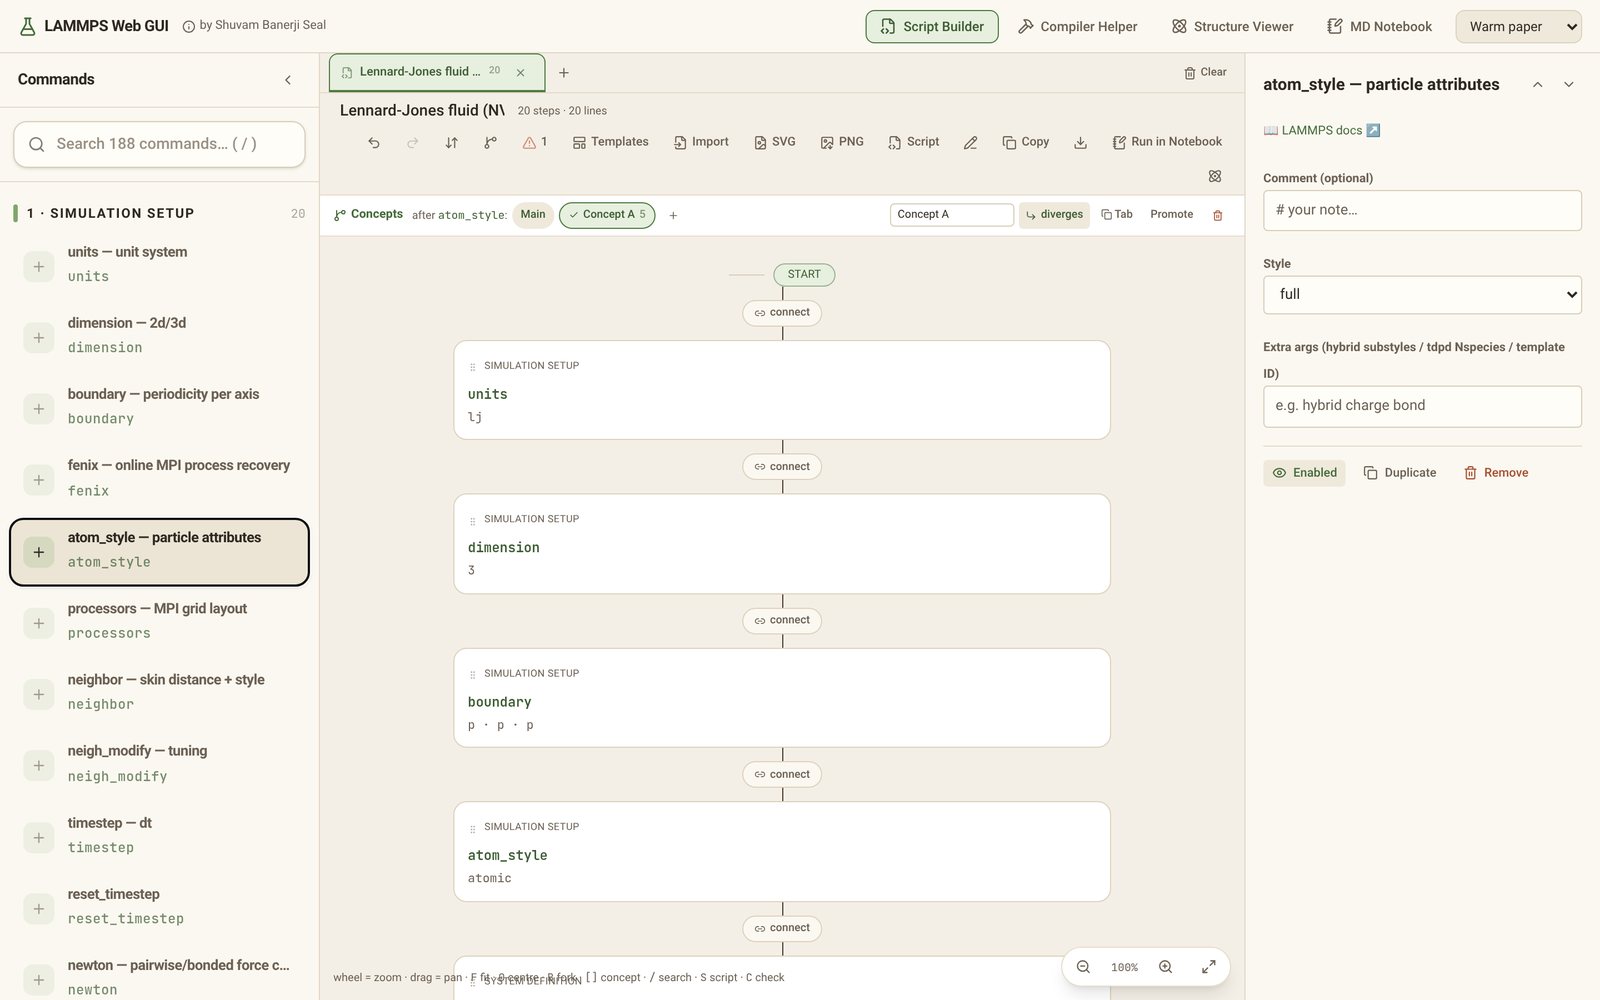
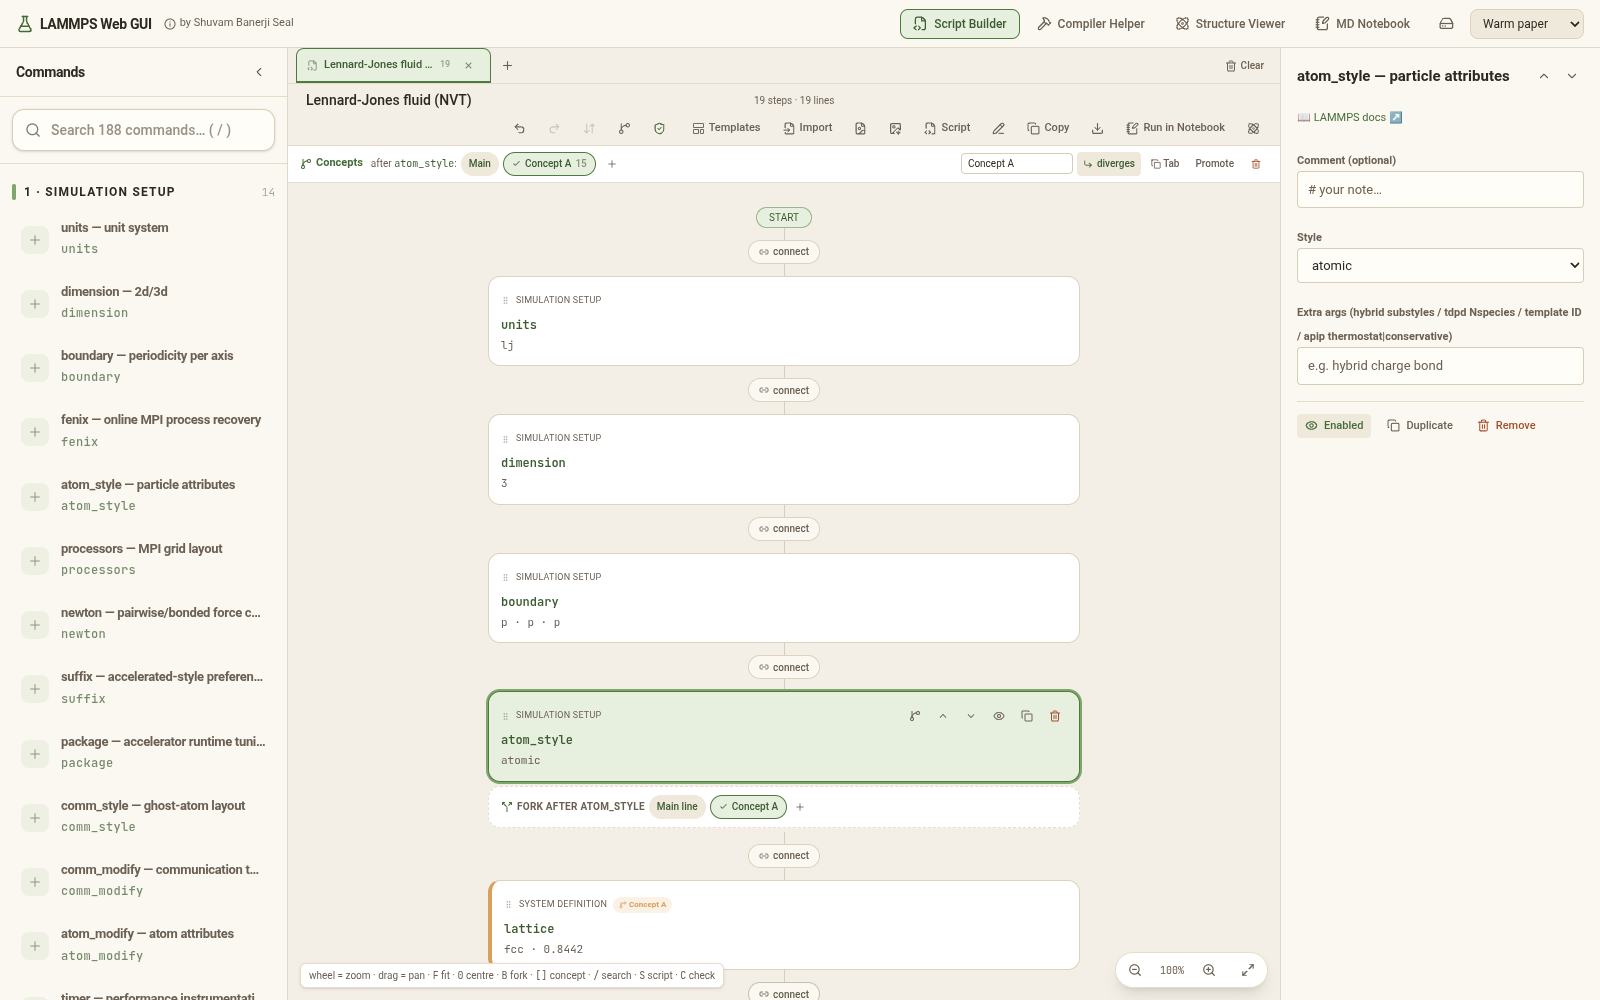
fix(builder): flowchart Fit fits, theme-coloured connectors, full title, one-row toolbar, readable hint
- Fit (F, the fit button) only fitted the width below 50 %, so a long pipeline stayed at 100 %. It now fits the
  whole pipeline (never above 100 %). It also marks the view as the user's, and the centring frame scheduled after a
  load checks that again, so a resize or that frame no longer snaps a fit back.
- The connector lines used a hard-coded dark brown that vanished in the dark themes; they use the theme's edgeLine
  (Coffee & sage's token raised for contrast).
- START and END lose their one-sided stub line.
- The title takes the row's free width (it was a fixed 10rem, cutting "Lennard-Jones fluid (NVT)"), with the full
  name as its tooltip.
- The title and the toolbar wrap as groups, and the toolbar labels follow the row's own width through container
  queries, not the viewport, so no button wraps alone onto a second row (measured from 1280 to 2560 px).
- The shortcut hint sits on a backdrop and stops short of the zoom control.

Changed region(s): [[0.0, 0.0, 1.0, 1.0], [0.7812, 0.31, 0.9688, 0.434], [0.8125, 0.465, 0.9375, 0.496]]

diff --git a/src/components/workbench/ScriptBuilder.tsx b/src/components/workbench/ScriptBuilder.tsx
@@ -177,8 +177,6 @@ const loadWorkspace = (): ScriptWorkspace => {
  */
 const ZOOM_MIN = 0.15;
 const ZOOM_MAX = 2.5;
-/** Fit to view never zooms out below this (text stays legible); see fitToView. */
-const FIT_MIN = 0.5;
 
 interface Transform {
   x: number;
@@ -885,14 +883,18 @@ const ScriptBuilder: React.FC<ScriptBuilderProps> = ({ theme, onOpenViewer, onRu
     const w = content.offsetWidth;
     const h = content.offsetHeight;
     if (w === 0 || h === 0) return;
+    // the user chose this view: the auto-centring (a pending frame after a template loads, or a canvas resize) must
+    // not snap it back to 100 %
+    viewUntouched.current = false;
     const fitW = (el.clientWidth - pad * 2) / w;
     const fitAll = Math.min(fitW, (el.clientHeight - pad * 2) / h);
-    // A long pipeline fitted whole became unreadable (20 steps: 21 %, 13 px titles at about 3 px). Below
-    // FIT_MIN the view fits the width instead (never below FIT_MIN), starts at the top and is panned.
-    const k = Math.min(ZOOM_MAX, fitAll >= FIT_MIN ? fitAll : Math.max(FIT_MIN, Math.min(fitW, 1)));
+    // The whole pipeline, as the button says: a long one becomes the bird's-eye overview ZOOM_MIN is for (before,
+    // below 50 % the view only fitted the width and stayed at 100 %, so Fit did nothing on a desktop). Never above
+    // 100 % for a short one (a 3-step pipeline blown up to fill the canvas reads as a mistake).
+    const k = Math.min(1, Math.max(ZOOM_MIN, fitAll));
     setViewTf({
-      x: Math.max(pad, (el.clientWidth - w * k) / 2),
-      y: fitAll >= FIT_MIN ? Math.max(pad, (el.clientHeight - h * k) / 2) : pad,
+      x: (el.clientWidth - w * k) / 2,
+      y: Math.max(pad, (el.clientHeight - h * k) / 2),
       k,
     });
   }, []);
@@ -975,7 +977,8 @@ const ScriptBuilder: React.FC<ScriptBuilderProps> = ({ theme, onOpenViewer, onRu
     if (view !== 'flow' || !viewUntouched.current) return;
     const el = canvasRef.current;
     if (!el) return;
-    const id = window.requestAnimationFrame(centerView);
+    // checked again when the frame comes: a Fit (or a pan, zoom) before it is the user's view
+    const id = window.requestAnimationFrame(() => { if (viewUntouched.current) centerView(); });
     const ro = new ResizeObserver(() => {
       if (viewUntouched.current) centerView();
     });
@@ -1120,8 +1123,10 @@ const ScriptBuilder: React.FC<ScriptBuilderProps> = ({ theme, onOpenViewer, onRu
         </div>
 
         {/* Toolbar (scrollable on mobile, two groups on desktop) */}
-        <div className={`flex min-h-10 shrink-0 flex-wrap items-center justify-between gap-x-1 gap-y-1 border-b px-2 py-1 sm:gap-x-2 sm:px-3 ${ct.divider}`}>
-          <div className="flex min-w-0 shrink-0 items-center gap-1.5">
+        {/* a size container: the buttons' labels follow this row's width (the editor column, which the palette and the
+            step editor narrow), not the viewport, so the buttons fit in one row at every column width */}
+        <div className={`@container flex min-h-10 shrink-0 flex-wrap items-center justify-between gap-x-1 gap-y-1 border-b px-2 py-1 sm:gap-x-2 sm:px-3 ${ct.divider}`}>
+          <div className="flex min-w-0 flex-1 basis-72 items-center gap-1.5">
             {!paletteOpen && (
               <button onClick={() => setPaletteOpen(true)} className={`inline-flex min-h-6 min-w-6 shrink-0 items-center justify-center rounded p-1 ${ct.muted} ${ct.hoverSurface}`} title="Open palette">
                 <ChevronRight size={16} />
@@ -1130,7 +1135,8 @@ const ScriptBuilder: React.FC<ScriptBuilderProps> = ({ theme, onOpenViewer, onRu
             <input
               value={model.title}
               onChange={e => setModel(prev => ({ ...prev, title: e.target.value }))}
-              className={`w-24 min-w-0 flex-shrink rounded bg-transparent px-1 py-0.5 text-sm font-medium focus:outline-none focus:ring-1 focus:ring-[#7fa66b] sm:w-40 sm:px-1.5 ${ct.headerText}`}
+              title={model.title}
+              className={`w-24 min-w-0 flex-1 truncate rounded bg-transparent px-1 py-0.5 text-sm font-medium focus:outline-none focus:ring-1 focus:ring-[#7fa66b] sm:max-w-md sm:px-1.5 ${ct.headerText}`}
               aria-label="Script title"
             />
             <span className={`hidden whitespace-nowrap text-[10px] md:block ${ct.muted}`}>
@@ -1144,6 +1150,9 @@ const ScriptBuilder: React.FC<ScriptBuilderProps> = ({ theme, onOpenViewer, onRu
               Notebook was unclickable at ~768-1200px). */}
           {/* Phone: one scrolling strip whose buttons keep their width (shrunk
               to 24 px, the "Script" label ran over the next icon). */}
+          {/* md+: the title group takes the row's leftover width (basis 18rem), so when the buttons do not fit beside
+              it the whole group moves to its own row (at 1440 px one icon used to wrap alone onto a second row, and
+              the title was cut at 10rem); on a narrow column the group wraps its own buttons. */}
           <div className="flex min-w-0 items-center gap-0.5 max-md:overflow-x-auto max-md:*:shrink-0 md:ml-auto md:flex-wrap md:justify-end sm:gap-1.5">
             <button
               onClick={undo}
@@ -1173,7 +1182,7 @@ const ScriptBuilder: React.FC<ScriptBuilderProps> = ({ theme, onOpenViewer, onRu
               aria-label="Sort steps by section"
             >
               <ArrowDownUp size={13} />
-              <span className="hidden 2xl:inline">Sort</span>
+              <span className="hidden @6xl:inline">Sort</span>
             </button>
             <button
               onClick={() => forkHere(model.steps[model.steps.length - 1]?.uid ?? null)}
@@ -1182,7 +1191,7 @@ const ScriptBuilder: React.FC<ScriptBuilderProps> = ({ theme, onOpenViewer, onRu
               title="Fork a new concept branch at the end of the pipeline"
             >
               <GitBranch size={13} />
-              <span className="hidden 2xl:inline">Fork</span>
+              <span className="hidden @6xl:inline">Fork</span>
             </button>
             <button
               onClick={() => setLintOpen(v => !v)}
@@ -1206,7 +1215,7 @@ const ScriptBuilder: React.FC<ScriptBuilderProps> = ({ theme, onOpenViewer, onRu
                     ? lintCounts.warnings
                     : ''}
               </span>
-              <span className="hidden 2xl:inline">Check</span>
+              <span className="hidden @6xl:inline">Check</span>
             </button>
             <div ref={templatesMenuRef} className="relative">
               <button
@@ -1215,7 +1224,7 @@ const ScriptBuilder: React.FC<ScriptBuilderProps> = ({ theme, onOpenViewer, onRu
                 title="Start from a ready-made pipeline"
               >
                 <LayoutTemplate size={13} />
-                <span className="hidden md:inline">Templates</span>
+                <span className="hidden @lg:inline">Templates</span>
               </button>
               {templatesOpen && (
                 <div
@@ -1255,7 +1264,7 @@ const ScriptBuilder: React.FC<ScriptBuilderProps> = ({ theme, onOpenViewer, onRu
               title="Import a LAMMPS input script — builds the flowchart"
             >
               <FileInput size={13} />
-              <span className="hidden lg:inline">Import</span>
+              <span className="hidden @3xl:inline">Import</span>
             </button>
             <input
               ref={importInputRef}
@@ -1277,7 +1286,7 @@ const ScriptBuilder: React.FC<ScriptBuilderProps> = ({ theme, onOpenViewer, onRu
                   title="Export the flowchart as a presentable SVG"
                 >
                   <FileImage size={13} />
-                  <span className="hidden md:inline">SVG</span>
+                  <span className="hidden @5xl:inline">SVG</span>
                 </button>
                 <button
                   onClick={() => exportFlowchart('png')}
@@ -1286,7 +1295,7 @@ const ScriptBuilder: React.FC<ScriptBuilderProps> = ({ theme, onOpenViewer, onRu
                   title="Export the flowchart as a 2x PNG image"
                 >
                   <ImageDown size={13} />
-                  <span className="hidden md:inline">PNG</span>
+                  <span className="hidden @5xl:inline">PNG</span>
                 </button>
               </>
             )}
@@ -1308,7 +1317,7 @@ const ScriptBuilder: React.FC<ScriptBuilderProps> = ({ theme, onOpenViewer, onRu
                 title="Discard manual edits and regenerate from your steps"
               >
                 <X size={13} />
-                <span className="hidden 2xl:inline">Exit manual</span>
+                <span className="hidden @6xl:inline">Exit manual</span>
               </button>
             ) : (
               <button
@@ -1317,7 +1326,7 @@ const ScriptBuilder: React.FC<ScriptBuilderProps> = ({ theme, onOpenViewer, onRu
                 title="Override the generated script with hand-edited text"
               >
                 <PencilLine size={13} />
-                <span className="hidden 2xl:inline">Override</span>
+                <span className="hidden @6xl:inline">Override</span>
               </button>
             )}
             <button
@@ -1325,7 +1334,7 @@ const ScriptBuilder: React.FC<ScriptBuilderProps> = ({ theme, onOpenViewer, onRu
               className={`flex min-h-6 min-w-6 items-center gap-1 rounded px-2 py-1 text-[11px] font-medium transition-colors ${ct.muted} ${ct.hoverSurface}`}
               title="Copy script to clipboard"
             >
-              {copied ? <span className={ct.accentText}>✓ Copied</span> : <><Copy size={13} /><span className="hidden lg:inline">Copy</span></>}
+              {copied ? <span className={ct.accentText}>✓ Copied</span> : <><Copy size={13} /><span className="hidden @3xl:inline">Copy</span></>}
             </button>
             <button
               onClick={() => downloadTextFile('in.lammps', activeText)}
@@ -1333,7 +1342,7 @@ const ScriptBuilder: React.FC<ScriptBuilderProps> = ({ theme, onOpenViewer, onRu
               title="Download in.lammps"
             >
               <Download size={13} />
-              <span className="hidden 2xl:inline">Download</span>
+              <span className="hidden @6xl:inline">Download</span>
             </button>
             {onRunInNotebook && (
               <button
@@ -1343,7 +1352,7 @@ const ScriptBuilder: React.FC<ScriptBuilderProps> = ({ theme, onOpenViewer, onRu
                 aria-label="Run this script in the MD Notebook"
               >
                 <NotebookPen size={13} />
-                <span className="hidden whitespace-nowrap xl:inline">Run in Notebook</span>
+                <span className="hidden whitespace-nowrap @4xl:inline">Run in Notebook</span>
               </button>
             )}
             {onOpenViewer && (
@@ -1353,7 +1362,7 @@ const ScriptBuilder: React.FC<ScriptBuilderProps> = ({ theme, onOpenViewer, onRu
                 title="Open 3D structure viewer"
               >
                 <AtomIcon size={13} />
-                <span className="hidden 2xl:inline">Viewer</span>
+                <span className="hidden @6xl:inline">Viewer</span>
               </button>
             )}
           </div>
@@ -1679,7 +1688,7 @@ const ScriptBuilder: React.FC<ScriptBuilderProps> = ({ theme, onOpenViewer, onRu
                 <Maximize2 size={14} />
               </button>
             </div>
-            <p className={`pointer-events-none absolute bottom-3 left-3 hidden text-[10px] md:block ${ct.muted}`}>
+            <p className={`pointer-events-none absolute bottom-3 left-3 hidden max-w-[calc(100%-13rem)] truncate rounded-md border px-2 py-1 text-[10px] shadow-sm lg:block ${ct.card} ${ct.muted}`}>
               wheel = zoom · drag = pan · <kbd>F</kbd> fit · <kbd>0</kbd> centre · <kbd>B</kbd> fork · <kbd>[</kbd><kbd>]</kbd> concept · <kbd>/</kbd> search · <kbd>S</kbd> script · <kbd>C</kbd> check
             </p>
           </div>
@@ -1893,7 +1902,7 @@ const FlowchartView: React.FC<FlowchartViewProps> = ({
     const canForkHere = i === 0 || trunkSteps.some(t => t.uid === steps[i - 1]?.uid);
     return (
       <div key={`edge-${i}`} className="relative flex flex-col items-center">
-        <div className={`h-3 w-px bg-[#453a2b]`} />
+        <div className={`h-3 w-px ${ct.edgeLine}`} />
         <button
           ref={el => registerEdgePillRef(i, el)}
           onClick={(e) => { e.stopPropagation(); onEdgeClick(i); }}
@@ -1908,7 +1917,7 @@ const FlowchartView: React.FC<FlowchartViewProps> = ({
           <Link2 size={10} />
           connect
         </button>
-        <div className={`h-3 w-px bg-[#453a2b]`} />
+        <div className={`h-3 w-px ${ct.edgeLine}`} />
 
         {menuOpen && (
           <div
@@ -2015,8 +2024,7 @@ const FlowchartView: React.FC<FlowchartViewProps> = ({
   return (
     <div className={`flex flex-col items-center gap-0 p-6 ${dragUid ? 'select-none' : ''}`}>
       {/* START */}
-      <div className="flex items-center gap-2 text-[10px] text-[#a3937f]">
-        <div className={`h-px w-8 ${ct.edgeLine.replace('bg-', 'bg-')}`} />
+      <div className="flex items-center text-[10px]">
         <span className={`rounded-full px-3 py-0.5 ${ct.startBadge}`}>
           START
         </span>
@@ -2166,8 +2174,7 @@ const FlowchartView: React.FC<FlowchartViewProps> = ({
         </div>
       )}
 
-      <div className="mt-2 flex items-center gap-2 text-[10px] text-[#a3937f]">
-        <div className={`h-px w-8 ${ct.edgeLine}`} />
+      <div className="mt-2 flex items-center text-[10px]">
         <span className={`rounded-full px-3 py-0.5 ${ct.endBadge}`}>
           END
         </span>

diff --git a/tests/flowchartView.test.tsx b/tests/flowchartView.test.tsx
@@ -1,0 +1,102 @@
+/**
+ * Script Builder flowchart fixes (measured in Chromium at 1440, 820 and 390 px before the change):
+ *  - Fit (F, and the fit button) left a 19-step pipeline at 100 %: below 50 % it only fitted the width. It now fits the
+ *    whole pipeline (never above 100 %).
+ *  - The connector lines between cards were a hard-coded dark brown that all but vanished on the dark themes; they use
+ *    the theme's edge colour.
+ *  - START and END had a line on one side only.
+ *  - The title field was a fixed 10rem, cutting "Lennard-Jones fluid (NVT)" while the row had room.
+ * jsdom has no layout, so the canvas and column sizes are stubbed for the fit test.
+ */
+import { describe, it, expect, beforeEach, afterEach, vi } from 'vitest';
+import React, { act } from 'react';
+import { createRoot, type Root } from 'react-dom/client';
+import ScriptBuilder from '../src/components/workbench/ScriptBuilder';
+import { SCRIPT_TEMPLATES } from '../src/lammps/templates';
+import { getThemeTokens } from '../src/theme';
+
+(globalThis as unknown as { IS_REACT_ACT_ENVIRONMENT: boolean }).IS_REACT_ACT_ENVIRONMENT = true;
+
+let container: HTMLDivElement;
+let root: Root;
+
+const click = async (el: Element) => {
+  await act(async () => {
+    el.dispatchEvent(new MouseEvent('click', { bubbles: true, cancelable: true }));
+  });
+};
+const buttonWithText = (text: string) =>
+  [...container.querySelectorAll<HTMLButtonElement>('button')].find(b => b.textContent?.includes(text));
+
+const open = async (theme: 'light' | 'dark') => {
+  await act(async () => {
+    root.render(React.createElement(ScriptBuilder, { theme, onRunInNotebook: () => {} }));
+  });
+  await click(buttonWithText('Templates')!);
+  // the longest starter pipeline
+  const longest = [...SCRIPT_TEMPLATES].sort((a, b) => b.steps.length - a.steps.length)[0];
+  await click(buttonWithText(longest.label)!);
+  return longest;
+};
+
+/** The zoom readout of the canvas controls (e.g. "100%"). */
+const zoomText = () => [...container.querySelectorAll('button')].map(b => b.textContent ?? '').find(t => /^\d+%$/.test(t.trim()));
+
+beforeEach(() => {
+  localStorage.clear();
+  vi.stubGlobal('ResizeObserver', class { observe() {} unobserve() {} disconnect() {} });
+  window.innerWidth = 1440;
+  container = document.createElement('div');
+  document.body.appendChild(container);
+  root = createRoot(container);
+});
+
+afterEach(async () => {
+  await act(async () => { root.unmount(); });
+  vi.unstubAllGlobals();
+  vi.restoreAllMocks();
+  container.remove();
+});
+
+describe('Script Builder flowchart view', () => {
+  it('Fit shows the whole pipeline: a long one zooms out below 100 %', async () => {
+    // a 832 x 690 canvas and a 592-px column that is 2800 px tall (19 steps at about 140 px each)
+    vi.spyOn(HTMLElement.prototype, 'clientWidth', 'get').mockReturnValue(832);
+    vi.spyOn(HTMLElement.prototype, 'clientHeight', 'get').mockReturnValue(690);
+    vi.spyOn(HTMLElement.prototype, 'offsetWidth', 'get').mockReturnValue(592);
+    vi.spyOn(HTMLElement.prototype, 'offsetHeight', 'get').mockReturnValue(2800);
+    await open('light');
+    const fit = container.querySelector<HTMLButtonElement>('button[aria-label="Fit pipeline to view"]')!;
+    await click(fit);
+    // (690 - 48) / 2800 = 23 %
+    expect(zoomText()).toBe('23%');
+    // a short pipeline is not blown up past 100 %
+    vi.spyOn(HTMLElement.prototype, 'offsetHeight', 'get').mockReturnValue(300);
+    await click(fit);
+    expect(zoomText()).toBe('100%');
+  });
+
+  it('draws the connectors in the theme edge colour and START/END without a one-sided line', async () => {
+    await open('dark');
+    const edge = getThemeTokens('dark').edgeLine;
+    const pills = [...container.querySelectorAll<HTMLButtonElement>('button[aria-label^="Connection "]')];
+    expect(pills.length).toBeGreaterThan(5);
+    for (const p of pills.slice(0, 3)) {
+      expect(p.previousElementSibling?.className).toContain(edge);
+      expect(p.nextElementSibling?.className).toContain(edge);
+    }
+    for (const label of ['START', 'END']) {
+      const badge = [...container.querySelectorAll('span')].find(s => s.textContent?.trim() === label)!;
+      expect(badge).toBeTruthy();
+      expect(badge.parentElement!.children.length).toBe(1);
+    }
+  });
+
+  it('gives the title the room of its row and its full text as a tooltip', async () => {
+    await open('light');
+    const title = container.querySelector<HTMLInputElement>('input[aria-label="Script title"]')!;
+    expect(title.className).not.toMatch(/\bsm:w-40\b/);
+    expect(title.className).toMatch(/\bflex-1\b/);
+    expect(title.title).toBe(title.value);
+  });
+});

diff --git a/src/theme.ts b/src/theme.ts
@@ -164,7 +164,7 @@ const DARK: ThemeTokens = {
   chipIdle: 'bg-[#342b1d]/60 text-[#a9cba0] hover:bg-[#342b1d] hover:text-[#c4ddb2]',
   nodeCard: 'border-[#3f3526] bg-[#1e1913]/60 hover:border-[#659054]',
   nodeDisabled: 'border-[#332a1f] bg-[#1e1913]/20',
-  edgeLine: 'bg-[#453a2b]',
+  edgeLine: 'bg-[#6b5a44]',
   edgePill:
     'border-[#3f3526] bg-[#241e16] text-[#a3937f] hover:border-[#7fa66b] hover:text-[#c4ddb2]',
   edgeActive: 'border-[#7fa66b] bg-[#31402a] text-[#c4ddb2]',
